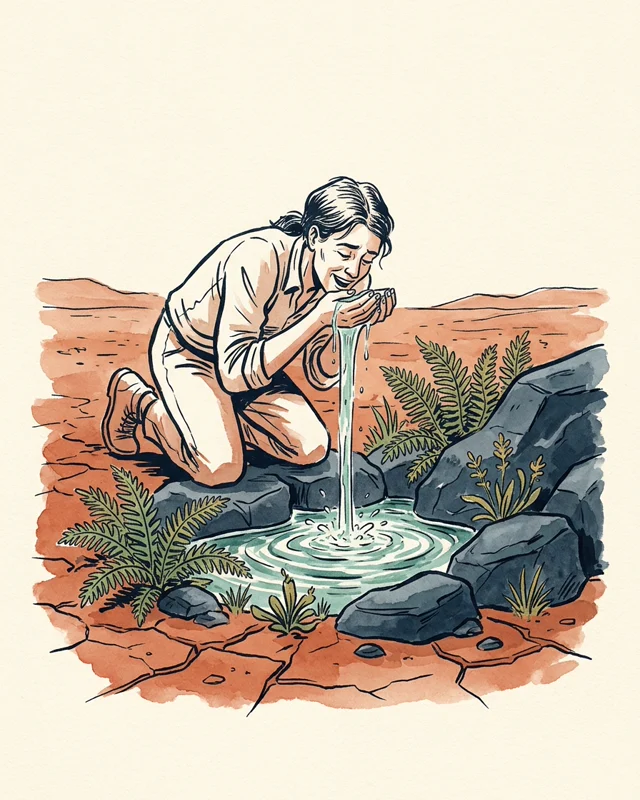
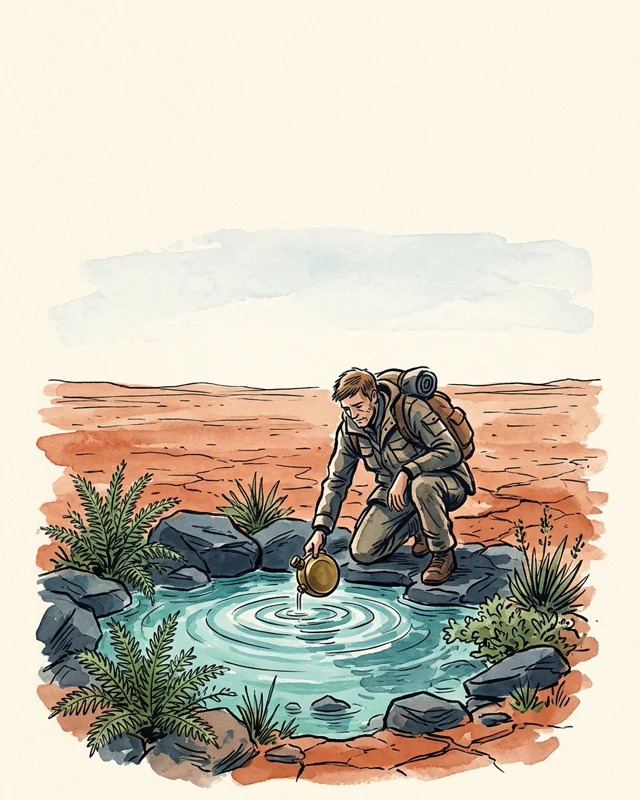
art(illus): upgrade resource, potential, and appropriate illustrations to >=9.4/10 multimodal QA standard

diff --git a/pipeline/README.md b/pipeline/README.md
@@ -1,26 +1,27 @@
 # ClawWords Illustration & Copy Production Pipeline
 
 ## Overview
-To guarantee every word in `ClawWords` gets a vivid, memorable editorial illustration and crisp bilingual copy **without exceeding Claude's 5-hour usage quota**, production runs in **micro-batches of 5 words** following strict `WORDS` frequency/queue order.
+Every word in `ClawWords` goes through a strict **3-Stage Production & Multimodal QA Pipeline** in **micro-batches of 5 words** following `WORDS` queue order. Both image generation (`image-generator`) and multimodal QA (`read_file` visual inspection) run natively inside Antigravity with **zero consumption of external Claude 5-hour quotas**.
 
-## 3-Stage Division of Labor (`生图 -> 质检 -> 合格上线`)
+## 3-Stage Division of Labor (`生图 -> 严苛质检(>=9.0分) -> 合格上线`)
 
 1. **Stage 1: Creative Brief & Illustration Generation (`生图员 / image-generator`)**
    - Pick the next **5 pending words** via `node scripts/illus-pipeline.mjs status`.
    - Prepare each word's:
-     - `sceneHook`: 2–3 word natural English collocation (e.g., `natural resource`, `gain access`, `hidden potential`, `smart method`, `appropriate attire`).
-     - `sceneHookZh`: 4-character vivid Chinese phrase (`珍贵水源`, `获准通行`, `潜藏巨能`, `巧用杠杆`, `穿着得体`).
+     - `sceneHook`: 2–3 word natural English collocation.
+     - `sceneHookZh`: 4-character vivid Chinese phrase.
      - Two-tier examples: `examples[0]` (6–10 word everyday `i+1` sentence) + `examples[1]` (authentic Cambridge IELTS sentence).
-   - Generate `4:5` New Yorker editorial ink-and-watercolor illustrations on warm cream paper (`#FAF6EE`) with **zero embedded text** and convert to `640x800` `.webp` (`public/illus/<id>.webp`).
+   - Generate `3:4` / `4:5` New Yorker editorial ink-and-watercolor illustrations on warm cream paper (`#FAF6EE`) and convert to `640x800` `.webp` (`public/illus/<id>.webp`).
+   - **Mandatory Composition Rule**: Keep the **top 18–20% of the canvas** as clean, open warm cream paper (`#FAF6EE`) so the top-centered bilingual capsule header never collides with dark ink or subjects.
 
-2. **Stage 2: Independent Visual & Semantic QA (`质检员 / Claude QA`)**
-   - Inspect all 5 generated illustrations + bilingual hooks in **one single compact English prompt** (minimizing token usage to stay well below Claude's 5-hour quota).
-   - 4-Point Pass Criteria (must score `>= 8/10`):
-     1. **Zero text/gibberish** in the artwork.
-     2. **1-second semantic recognition**: a learner can immediately connect the visual action/contrast to the word's core meaning.
-     3. **Style consistency**: warm cream background (`#FAF6EE`), expressive dark slate ink linework, terracotta (`#D97757`) & slate-blue (`#2D5A7B`) watercolor wash.
-     4. **Copy & `i+1` quality**: natural 2–3 word collocation, accurate 4-char Chinese hook, and natural `i+1` example sentence.
-   - Any image failing QA is regenerated once with a corrected visual prompt before release.
+2. **Stage 2: Strict Multimodal Visual & Semantic QA (`严苛质检员 / Antigravity Multimodal Vision`)**
+   - Inspect every final `640x800` `.webp` image in `public/illus/` directly via `read_file`.
+   - **5-Point Scoring Rubric (Must score `>= 9.0 / 10` to pass; `< 9.0` is immediately rejected and regenerated)**:
+     1. **Zero text/gibberish** anywhere in the artwork.
+     2. **Flawless physical & narrative logic** (no duplicate shadows, no weird water physics, clear protagonist focus).
+     3. **Top 18–20% cream paper breathing room** so the top-centered bilingual header sits cleanly.
+     4. **1-second semantic recognition** of the target word's core meaning.
+     5. **House style consistency**: warm cream paper (`#FAF6EE`), expressive dark slate ink outlines (`#1C1917`), terracotta (`#D97757`) & slate-blue (`#2D5A7B`) watercolor wash.
 
 3. **Stage 3: Automated Gate & Live Deployment (`合格上线`)**
    - Run `node scripts/illus-pipeline.mjs verify <id1> <id2> ...` to update `pipeline/illus-ledger.json`.
